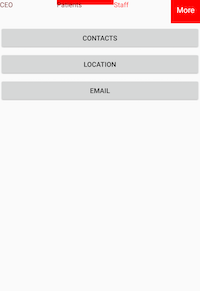
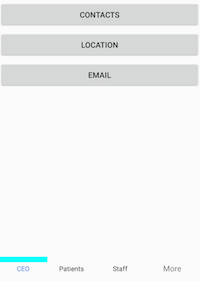
TabView Documentation have been modified.

diff --git a/Xamarin/SfTabView/Selection-Indicator.md b/Xamarin/SfTabView/Selection-Indicator.md
@@ -30,7 +30,7 @@ The selection indicator can be positioned below the title or above the title, or
                            OverflowMode="DropDown">
 			<tabView:SfTabView.SelectionIndicatorSettings>
                 <tabView:SelectionIndicatorSettings
-                    Color="Red" 
+                    Color="Aqua" 
                     Position="Top" 
                     StrokeThickness="10"/>
             </tabView:SfTabView.SelectionIndicatorSettings>
